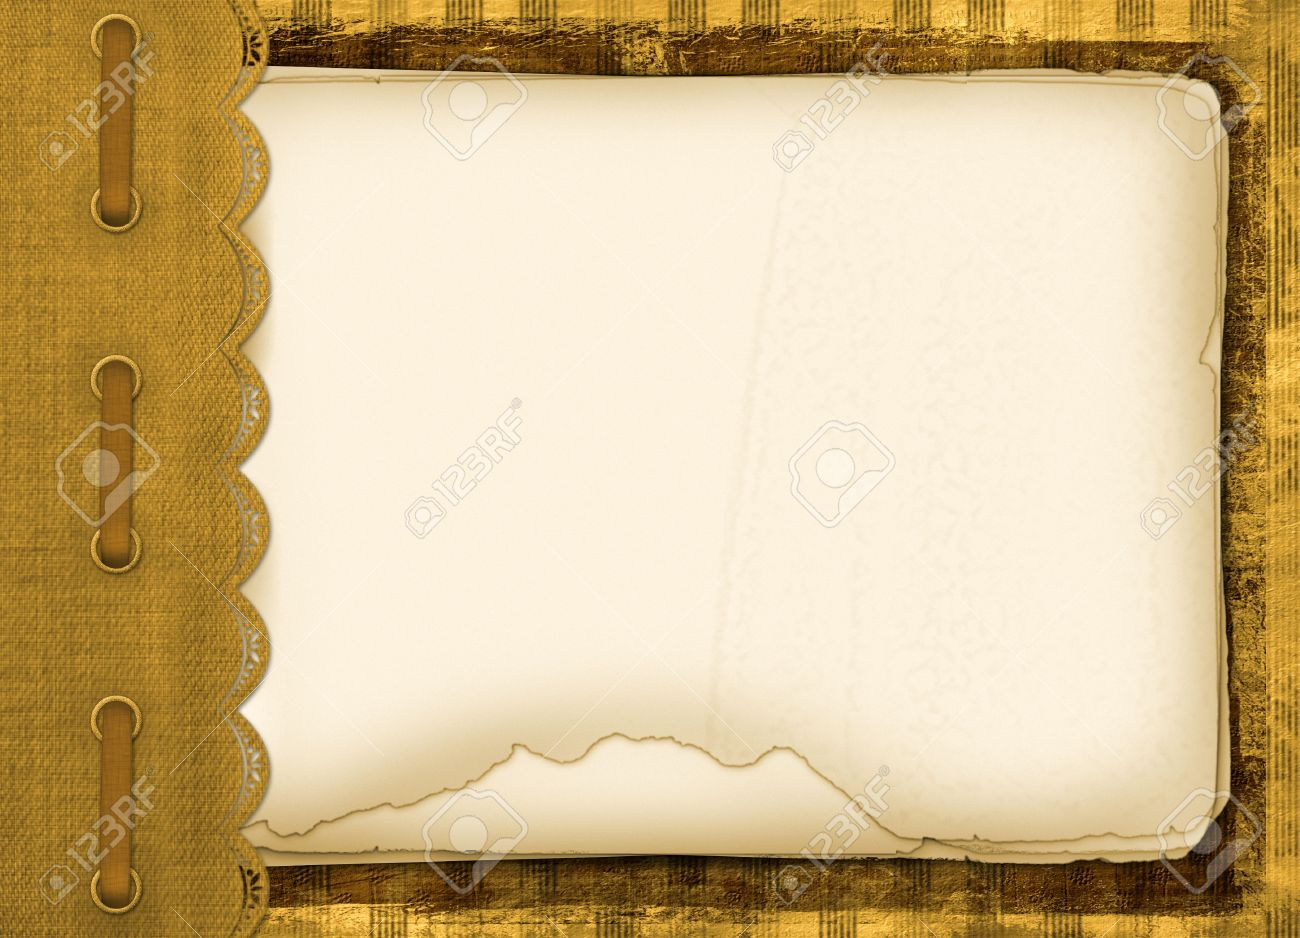
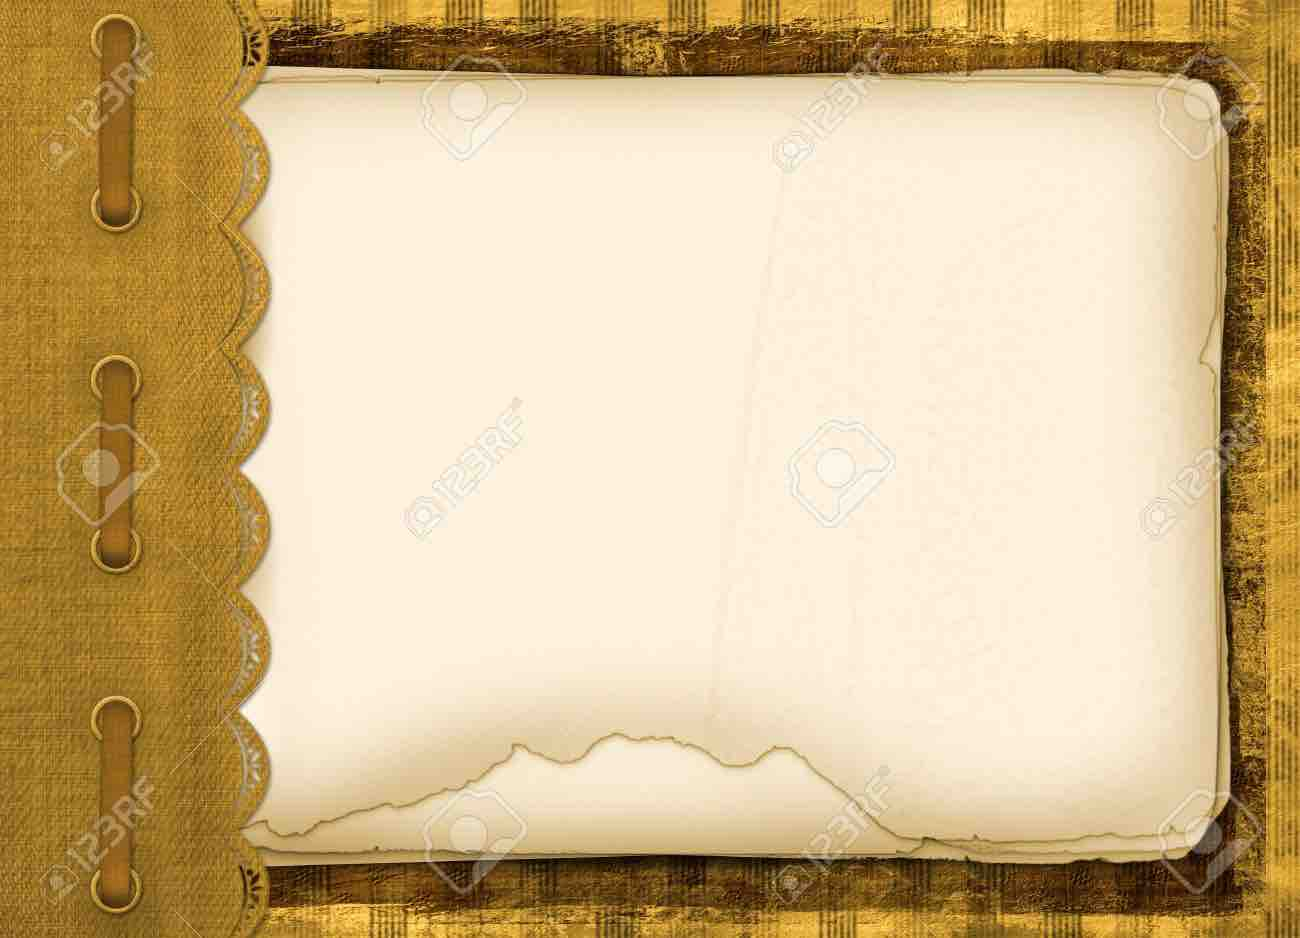
asd

diff --git a/stylesheets/login.css b/stylesheets/login.css
@@ -5,7 +5,8 @@ body{
     margin: 0;
 
     background-image: url("../backgroundPics/loginYatay.jpg");
-	background-size: cover;
+	background-size: 110%;
+    background-position: center;
 	background-repeat: no-repeat;
     height: 100vh;
     width: 100vw;
